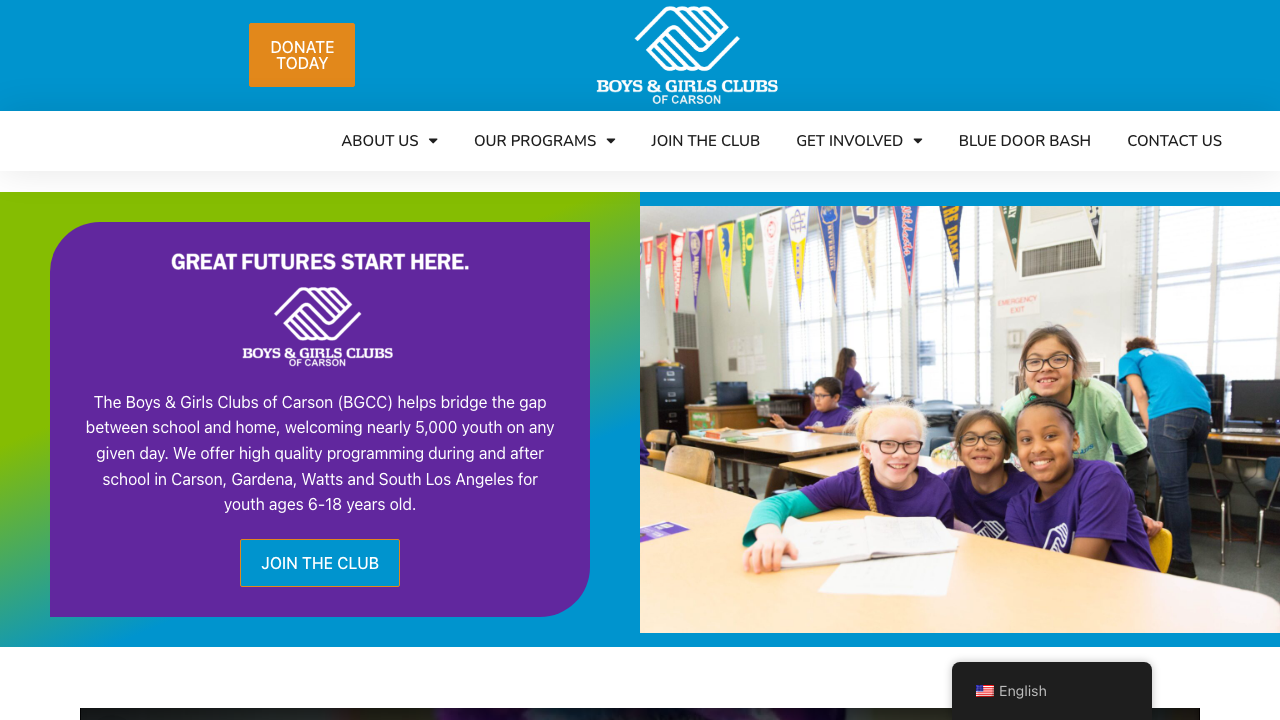
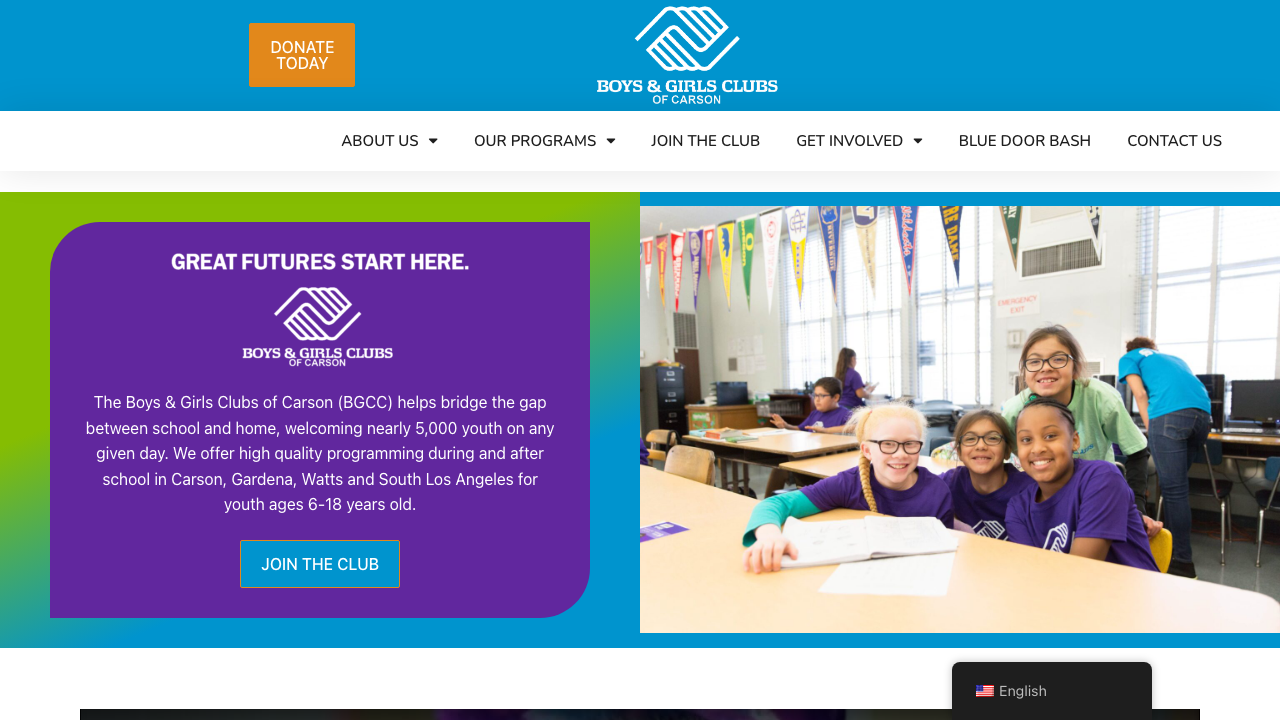
Deploy 5 nonprofit decks

Changed region(s): [[0.0625, 0.5806, 0.4375, 0.6111], [0.1875, 0.7639, 0.3125, 0.7944], [0.5312, 0.1222, 0.5625, 0.1528]]

diff --git a/boys-girls-club-of-albany/index.html b/boys-girls-club-of-albany/index.html
@@ -15,9 +15,9 @@
 
     <style>
         :root {
-            --primary: #0584c4;
-            --secondary: #FFC303;
-            --primary-dark: #001e5e;
+            --primary: #385898;
+            --secondary: #1c1e21;
+            --primary-dark: #000032;
             --font-display: 'Montserrat', sans-serif;
             --font-body: 'Open Sans', sans-serif;
         }

diff --git a/boys-girls-club-of-bloomington/index.html b/boys-girls-club-of-bloomington/index.html
@@ -15,9 +15,9 @@
 
     <style>
         :root {
-            --primary: #ee810e;
-            --secondary: #FFC303;
-            --primary-dark: #881b00;
+            --primary: #2b7bb9;
+            --secondary: #005fcc;
+            --primary-dark: #001553;
             --font-display: 'Montserrat', sans-serif;
             --font-body: 'Open Sans', sans-serif;
         }

diff --git a/boys-girls-club-of-carson/index.html b/boys-girls-club-of-carson/index.html
@@ -15,9 +15,9 @@
 
     <style>
         :root {
-            --primary: #0494cb;
-            --secondary: #FFC303;
-            --primary-dark: #002e65;
+            --primary: #046bd2;
+            --secondary: #e2881b;
+            --primary-dark: #00056c;
             --font-display: 'Montserrat', sans-serif;
             --font-body: 'Open Sans', sans-serif;
         }

diff --git a/boys-girls-club-of-corvallis/index.html b/boys-girls-club-of-corvallis/index.html
@@ -15,9 +15,9 @@
 
     <style>
         :root {
-            --primary: #0493d3;
-            --secondary: #FFC303;
-            --primary-dark: #002d6d;
+            --primary: #385898;
+            --secondary: #1c1e21;
+            --primary-dark: #000032;
             --font-display: 'Montserrat', sans-serif;
             --font-body: 'Open Sans', sans-serif;
         }

diff --git a/boys-girls-club-of-ridgefield/index.html b/boys-girls-club-of-ridgefield/index.html
@@ -15,9 +15,9 @@
 
     <style>
         :root {
-            --primary: #045cdb;
-            --secondary: #e4bc90;
-            --primary-dark: #000075;
+            --primary: #222222;
+            --secondary: #028bff;
+            --primary-dark: #000000;
             --font-display: 'Montserrat', sans-serif;
             --font-body: 'Open Sans', sans-serif;
         }
